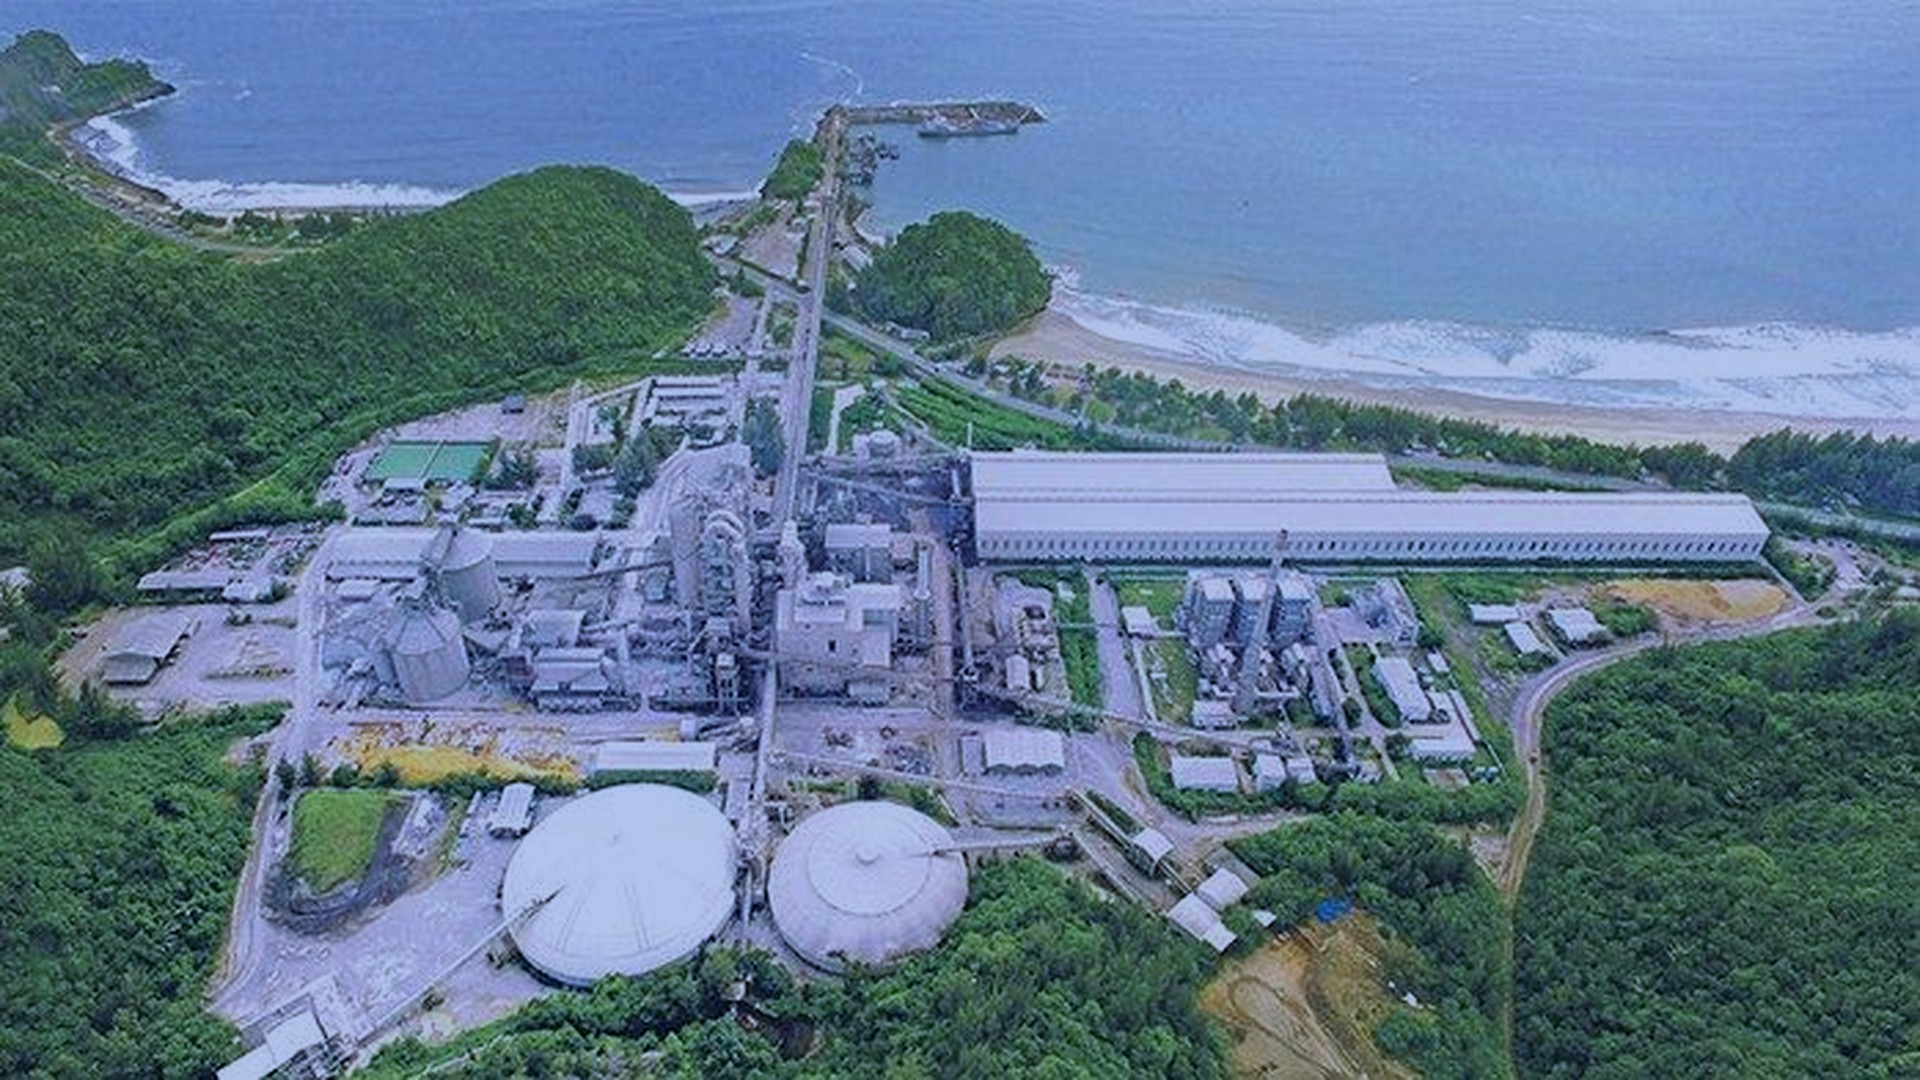
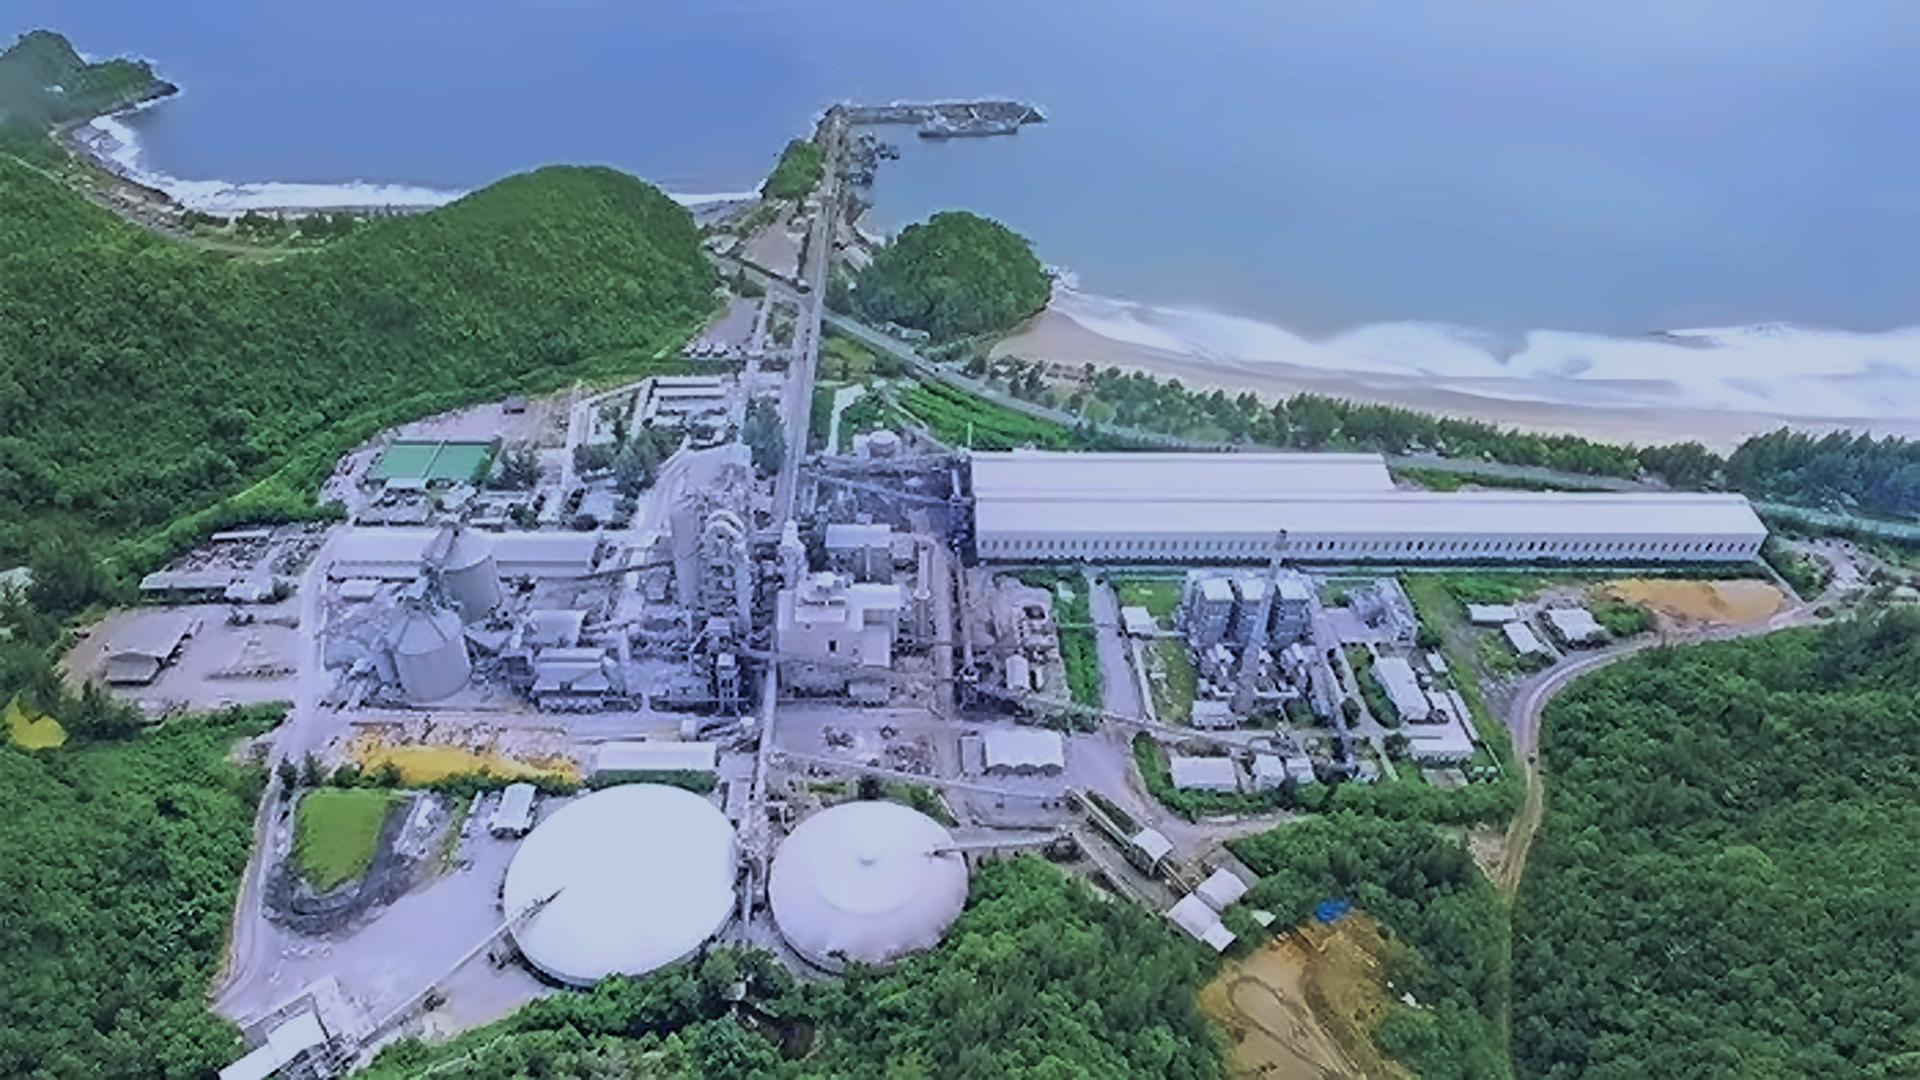
enhance(login): OpenCV multi-stage bg upscaling (denoise+bilateral+unsharp+q97), premium dark card (96% opacity, blue glow), pure-black inputs with GA One blue focus ring

diff --git a/resources/views/auth/login.blade.php b/resources/views/auth/login.blade.php
@@ -281,7 +281,7 @@
         width: 100vw !important;
         height: 100vh !important;
         z-index: 0 !important;
-        background-image: url('{{ asset('images/sba-factory-aerial.jpg') }}?v=3') !important;
+        background-image: url('{{ asset('images/sba-factory-aerial.jpg') }}?v=4') !important;
         background-size: cover !important;
         background-position: center 35% !important;
         background-repeat: no-repeat !important;
@@ -493,14 +493,19 @@
     .linda-card {
         width: 100%;
         max-width: 440px;
-        background: rgba(11, 20, 36, 0.92) !important;
-        backdrop-filter: blur(28px) !important;
-        -webkit-backdrop-filter: blur(28px) !important;
-        border: 1px solid rgba(255, 255, 255, 0.12) !important;
+        /* Kartu gelap pekat — kontras tinggi terhadap background pabrik */
+        background: rgba(8, 15, 28, 0.96) !important;
+        backdrop-filter: blur(32px) saturate(1.4) !important;
+        -webkit-backdrop-filter: blur(32px) saturate(1.4) !important;
+        /* Border tipis biru: kartu terlihat tegas di atas foto background */
+        border: 1px solid rgba(37, 99, 235, 0.35) !important;
         border-radius: 26px !important;
         padding: 34px 34px 28px !important;
-        box-shadow: 0 30px 60px -15px rgba(0, 0, 0, 0.8),
-                    0 0 40px -10px rgba(6, 182, 212, 0.25) !important;
+        /* Drop shadow besar + subtle blue outer glow */
+        box-shadow:
+            0 32px 64px -16px rgba(0, 0, 0, 0.85),
+            0 0 0 1px rgba(56, 189, 248, 0.08),
+            0 0 48px -12px rgba(37, 99, 235, 0.4) !important;
         position: relative !important;
         overflow: hidden !important;
     }
@@ -611,29 +616,31 @@
     }
 
     .linda-input-wrap:focus-within .linda-input-icon {
-        color: #38BDF8;
+        color: #2563EB;
     }
 
     .linda-input {
         width: 100% !important;
-        background: rgba(8, 16, 28, 0.85) !important;
-        border: 1px solid rgba(71, 85, 105, 0.7) !important;
+        /* Input nyaris hitam pekat — kontras teks putih sangat tajam */
+        background: rgba(4, 8, 16, 0.95) !important;
+        border: 1px solid rgba(37, 99, 235, 0.3) !important;
         border-radius: 12px !important;
         padding: 12px 16px 12px 42px !important;
         font-size: 13.5px !important;
         color: #FFFFFF !important;
         outline: none !important;
-        transition: all 0.2s ease !important;
+        transition: all 0.22s ease !important;
     }
 
     .linda-input::placeholder {
-        color: #64748B !important;
+        color: #475569 !important;
     }
 
     .linda-input:focus {
-        background: rgba(8, 16, 28, 0.98) !important;
-        border-color: #06B6D4 !important;
-        box-shadow: 0 0 0 3px rgba(6, 182, 212, 0.25) !important;
+        background: rgba(4, 8, 16, 1) !important;
+        /* Focus ring biru GA One */
+        border-color: #2563EB !important;
+        box-shadow: 0 0 0 3px rgba(37, 99, 235, 0.3) !important;
     }
 
     .linda-input-password {
